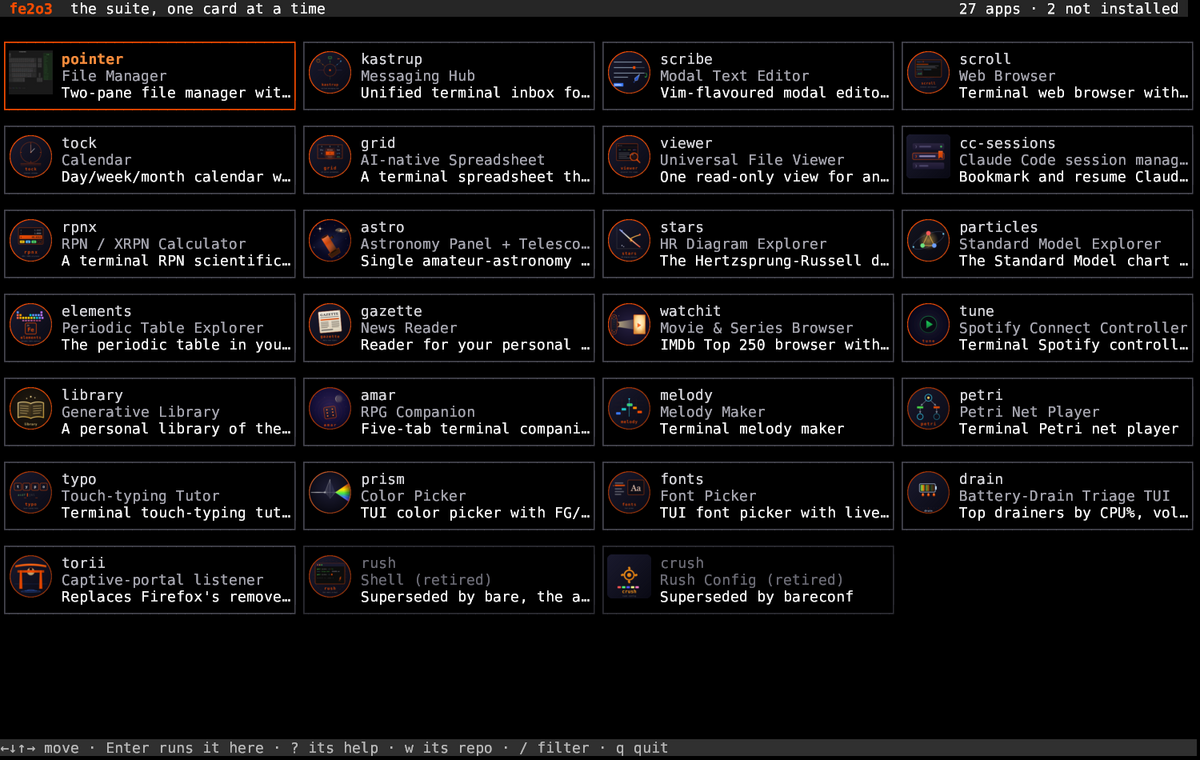
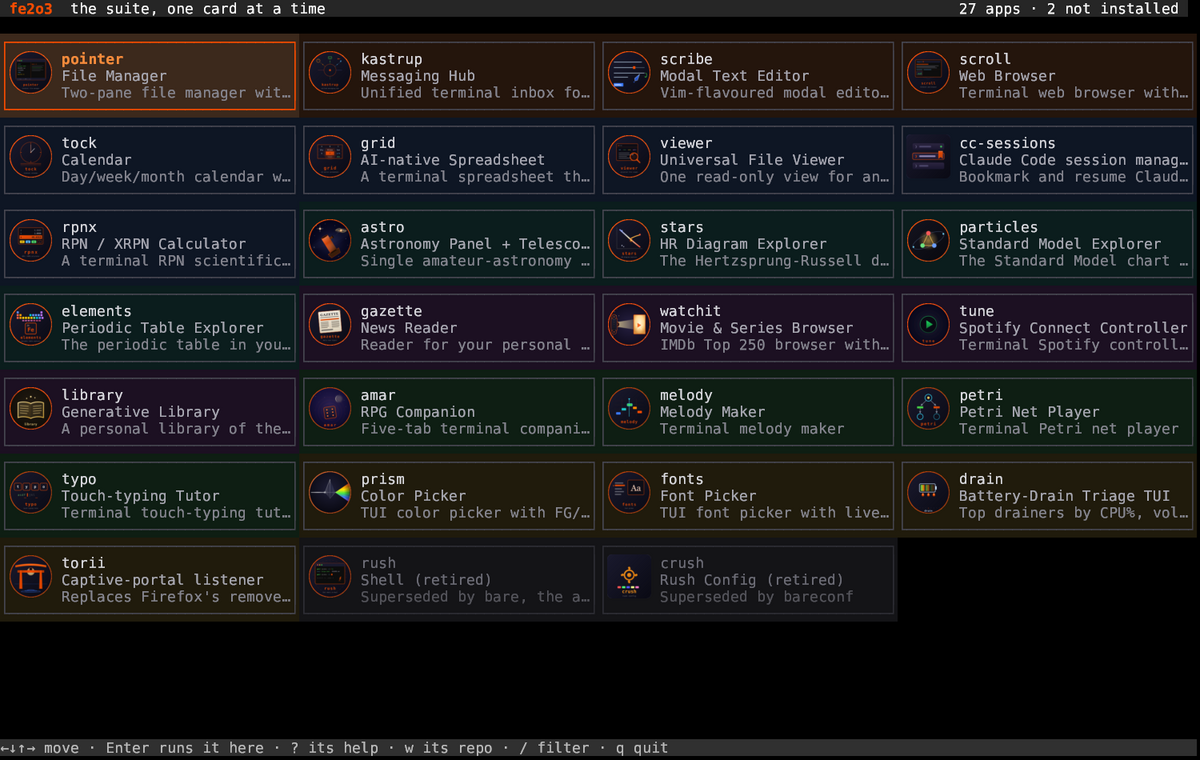
Tint the cards by group, colour the -l headings to match (v0.1.2)
Each section gets a hue at two ends of the scale: a dark tint behind its
cards, the light version for its heading in -l. The grid now reads as
bands — daily drivers warm, desk blue, science teal, media purple, play
green, system amber, retired grey — so a glance places an app before you
read its name. The selected card lifts off its own tint.

Every segment of a row carries the tint itself, since a nested reset
would drop the background half way along. -l stays plain when piped.

diff --git a/src/main.rs b/src/main.rs
@@ -16,6 +16,30 @@ use crust::{Crust, Cursor, Input, Pane, Popup};
 use std::io::Write;
 use std::path::PathBuf;
 
+/// Each group gets a hue at two ends of the scale: a dark tint behind
+/// its cards, a light one for its heading in `-l`. Same colour, so a
+/// group is recognisable whichever way you look at the suite.
+fn group_rgb(group: &str) -> ((u8, u8, u8), (u8, u8, u8)) {
+    match group {
+        "Daily drivers" => ((36, 21, 12), (255, 150, 90)),
+        "Desk" => ((14, 22, 36), (120, 175, 255)),
+        "Science" => ((11, 29, 29), (105, 225, 215)),
+        "Media" => ((28, 16, 34), (200, 140, 255)),
+        "Play" => ((14, 30, 19), (130, 220, 140)),
+        "System" => ((32, 27, 12), (240, 205, 110)),
+        _ => ((20, 20, 23), (150, 150, 158)), // Retired
+    }
+}
+
+/// The selected card lifts off its group tint.
+fn lift(c: (u8, u8, u8)) -> (u8, u8, u8) {
+    (
+        c.0.saturating_add(24),
+        c.1.saturating_add(20),
+        c.2.saturating_add(16),
+    )
+}
+
 const RUST_RGB: (u8, u8, u8) = (247, 76, 0);
 const HEAD_RGB: (u8, u8, u8) = (247, 140, 60);
 const DIM_RGB: (u8, u8, u8) = (110, 110, 120);
@@ -63,11 +87,17 @@ fn main() {
                 return;
             }
             "-l" | "--list" => {
+                let color = std::io::IsTerminal::is_terminal(&std::io::stdout());
                 let mut group = "";
                 for app in APPS {
                     if app.group != group {
                         group = app.group;
-                        println!("\n{group}");
+                        if color {
+                            let (_, light) = group_rgb(group);
+                            println!("\n{}", style::rgb(group, Some(light), None, "b"));
+                        } else {
+                            println!("\n{group}");
+                        }
                     }
                     println!("  {:<12} {:<28} {}", app.name, app.kind, app.blurb);
                 }
@@ -343,6 +373,8 @@ fn draw_cards(ui: &mut Ui, cols: u16, rows: u16, with_images: bool) {
 /// block afterwards by the image layer.
 fn card(app: &App, x: u16, y: u16, card_w: u16, selected: bool, installed: bool) -> String {
     let w = (card_w - 2) as usize;
+    let (tint, _) = group_rgb(app.group);
+    let bg = if selected { lift(tint) } else { tint };
     let (frame, name_rgb) = if selected {
         (RUST_RGB, HEAD_RGB)
     } else if installed {
@@ -351,23 +383,26 @@ fn card(app: &App, x: u16, y: u16, card_w: u16, selected: bool, installed: bool)
         ((45, 45, 52), DIM_RGB)
     };
     let text_rgb = if installed { (170, 170, 180) } else { DIM_RGB };
+    let blurb_rgb = if installed { (135, 135, 145) } else { (85, 85, 92) };
     let tw = w - LOGO_W as usize; // room left of the logo block
     let mut s = String::new();
-    let bar = |c: &str| style::rgb(c, Some(frame), None, "");
+    // Every segment carries the tint itself: a nested reset would drop
+    // the background half way along the row.
+    let bar = |c: &str| style::rgb(c, Some(frame), Some(bg), "");
 
     s.push_str(&Cursor::at(x, y));
     s.push_str(&bar(&format!("┌{}┐", "─".repeat(w))));
     let lines = [
-        style::rgb(&fit(app.name, tw), Some(name_rgb), None, if selected { "b" } else { "" }),
-        style::rgb(&fit(app.kind, tw), Some(text_rgb), None, ""),
-        style::dim(&fit(app.blurb, tw)),
+        style::rgb(&fit(app.name, tw), Some(name_rgb), Some(bg), if selected { "b" } else { "" }),
+        style::rgb(&fit(app.kind, tw), Some(text_rgb), Some(bg), ""),
+        style::rgb(&fit(app.blurb, tw), Some(blurb_rgb), Some(bg), ""),
     ];
     for (i, l) in lines.iter().enumerate() {
         s.push_str(&Cursor::at(x, y + 1 + i as u16));
         s.push_str(&format!(
             "{}{}{}{}",
             bar("│"),
-            " ".repeat(LOGO_W as usize),
+            style::rgb(&" ".repeat(LOGO_W as usize), None, Some(bg), ""),
             l,
             bar("│")
         ));
